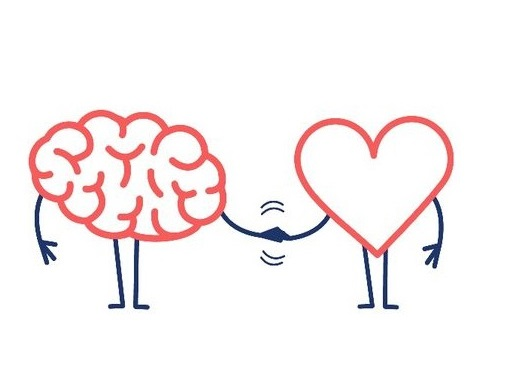
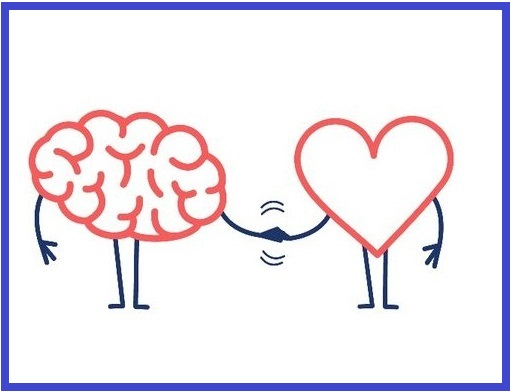
responsive

Changed region(s): [[0.0, 0.0, 0.998, 1.0]]

diff --git a/index.html b/index.html
@@ -50,7 +50,7 @@
                     <div class="col-lg-12 text-center">
                         <h2 class="section-heading text-uppercase">Sobre mí</h2>
                         <div class="row">
-                        <div class="section-subheading  col-md-8">Soy <span style="color: aqua;">Néstor Dominguez</span>, un coach dedicado a ayudar a las personas a alcanzar su
+                        <div class="section-subheading  col-md-8" style="text-align: justify;" >Soy <span style="color: aqua;">Néstor Dominguez</span>, un coach dedicado a ayudar a las personas a alcanzar su
                             máximo potencial y transformar sus vidas. Mi pasión por el coaching nace de mi propia
                             experiencia personal, donde aprendí a transformar mis pensamientos negativos en
                             positivos para lograr mis objetivos.<br>
@@ -127,13 +127,12 @@
                     </div>
 
                     <div class="col-md-12">
-                        
-                        <h4 class="service-heading">Aceptarte y Comprometerte</h4>
                         <br>
-                        <p class="parrafo">Empezar por aceptar tus pensamientos y emociones sin juzgarlos, y a comprometerte
-                            a realizar acciones alineadas con tus valores. De esta manera serás y vivirás la
-                            persona que quieres ser.<br>                        
-                        </p>                           
+                        <br>
+                        
+                        <h3 class="service-heading" >Quiero acompañarte en este proceso</h3>
+                        
+                                         
                     </div>
 
 
@@ -207,8 +206,8 @@
                       <div class="card__title" style="text-transform: none;">Cuando un cliente contrata los servicios de un coach es
                         porque hay algo en su vida que desea cambiar.</div>
                         <br>
-                      <p class="card__text" style="font-size: large;">A veces una forma de vivir, otros con referencia al trabajo o formas de relacionarse con
-                        el mundo.</p>
+                      <b><p class="card__text" style="font-size: medium;">A veces una forma de vivir, otros con referencia al trabajo o formas de relacionarse con
+                        el mundo.</p></b>
                       <!--<button class="btn" data-modal="modal6">Ver</button>-->
                     </div>
                   </div>
@@ -262,25 +261,30 @@
                     <div class="box">
                         
                         <h3>Sesión individual</h3>
-                        <p>75 € sesión indidual</p>
-                        <i class="fas fa-globe fa-4x"></i>
+                        <p><span class="valor">75 €</span>&nbsp; sesión indidual</p>
+                        <br>
+                        <a href="https://wa.me/+34647748900?text=¡Te+escribo+desde+tu+web!" target="_blank">                            
+                        <button style="padding: 8px 14px; background-color: rgb(3, 3, 103);border-radius: 7px; color: white;">Empecemos</button></a>                
                     </div>
-                    <div class="box">
-                    
+                    <div class="box" style="background-color: white;">                    
                         <h3>Bono de 4 sesiones</h3>
-                        <p>260 € (te ahorras 40€)</p>
-                        <i class="fas fa-globe fa-4x"></i>
+                        <p><span class="valor">260 €</span>&nbsp; (te ahorras 40€)</p>
+                        <br>
+                        <a href="https://wa.me/+34647748900?text=¡Te+escribo+desde+tu+web!" target="_blank">
+                        <button style="padding: 8px 14px; background-color: rgb(3, 3, 103);border-radius: 7px; color: white;">Empecemos</button></a>
                     </div>
                     <div class="box">
                         
                         <h3>Bono de 6 sesiones</h3>
-                        <p>360 € (te ahorras 90€)</p>
-                        <i class="fas fa-cog fa-4x"></i>
+                        <p><span class="valor">360 €</span> &nbsp; (te ahorras 90€)</p>
+                        <br>
+                        <a href="https://wa.me/+34647748900?text=¡Te+escribo+desde+tu+web!" target="_blank">
+                        <button style="padding: 8px 14px; background-color: rgb(3, 3, 103);border-radius: 7px; color: white;">Empecemos</button></a>
                     </div>                            
                 </div>
                 <br>
                 <a href="https://linktr.ee/nestordominguezcoach" target="_blank">
-                    <button  class="custom-btn btn-11">Reservar tu cita<div class="dot"></div></button>
+                    <button class="custom-btn btn-11">Reservar tu cita<div class="dot"></div></button>
                 </a>
                 <br>
                 <br>

diff --git a/main.css b/main.css
@@ -55,7 +55,7 @@ section {
 
 .content h2 {
   font-family: "Comfortaa", sans-serif;
-  font-size: clamp(2rem, 4vw, 2.5rem);
+  font-size: clamp(2rem, 4vw, 2.9rem);
   font-weight: 700;
   line-height: 1.2;
   letter-spacing: 1px;
@@ -96,14 +96,14 @@ section {
 .swiper {
   position: relative;
   width: 350px;
-    height: 450px;
+  height: 450px;
 }
 
 .swiper-slide {
   position: relative;
   background-position: center;
   background-size: cover;
-  border: 1px solid rgba(255, 255, 255, 0.3);
+  border: 5px solid white;
   user-select: none;
   border-radius: 20px;
 }
@@ -152,11 +152,14 @@ section {
     section {
         padding: 110px 40px 60px;
         gap: 34px;
-      }
+    }
+    .swiper {
+        margin-top: 40px;        
+    }
     .content h2 {
-       
+        margin-top: 80px;
         font-size:large;
-      }
+    }
 }
 
 @media (max-width: 470px) {
@@ -180,7 +183,7 @@ section {
 
 #about {
     padding: 50px 0;
-    background-color: black;
+    background-color: rgb(40, 53, 106);
 }
 
 section h3.section-subheading {
@@ -261,17 +264,28 @@ section h3.section-subheading {
 }
 .parrafo {
     color: #fff;
+    text-align: justify;
 }
 #services .grafico_servicio {
     padding: 25px;
     width: 50%;
     height: auto;
 }
+#services h3 {
+    color: aqua;
+    font-size: 300%;
+}
+@media (max-width: 991px) {
+  #services h3 {
+    font-size: 180%;
+  }
+}
+
 
 /************** cards traidas de decibel   ********/
 .ustedes {
     padding-top: 110px;
-    background-color: black;
+    background-color: rgb(40, 53, 106);
 }
 .ustedes ul {
     display: flex;
@@ -479,6 +493,12 @@ section h3.section-subheading {
     text-align: center;
 }
 
+.precios .valor {
+    color: #3306fc;
+    font-size: xx-large;
+    font-weight: 900;
+}
+
 .boxes {
     margin-top: 60px;
     margin-left: 60px;
@@ -494,34 +514,28 @@ section h3.section-subheading {
     padding: 1.5rem 4rem;
     box-shadow: whitesmoke;
 }
-/*.precios button {    
-    position: relative;
-    top: 60px;
-    left: 60px;   
-    background: aqua;
-    color: #202134;
-    font-size: clamp(0.9rem, 4vw, 1rem);
-    font-weight: 600;
-    border: 0;
-    outline: 0;
-    padding: 8px 14px;
-    border-radius: 7px;
-    transform: scale(1);
-    transition: all 0.4s ease-in;
-    cursor: pointer;
+/*.precios a {
+  background: #eaeaea;
+  color: #202134;
+  font-size: clamp(0.9rem, 4vw, 1rem);
+  font-weight: 600;
+  border: 0;
+  outline: 0;
+  padding: 8px 14px;
+  border-radius: 7px;
+  transform: scale(1);
+  transition: all 0.4s ease-in;
+  cursor: pointer;
 }
-  
-.precios button:is(:hover, :focus) {
-    transform: scale(0.98);
-    background-color: blue;
-    color: black;
+
+.precios a:is(:hover, :focus) {
+  transform: scale(0.98);
+  background-color: aqua;
+  color: black;
 }*/
-/* 11 */
-/*.frame {
-*width: 90%;
-  margin: 40px auto;
-  text-align: center;
-}*/
+
+
+
 button {
   top: 60px;
   left: 60px; 
